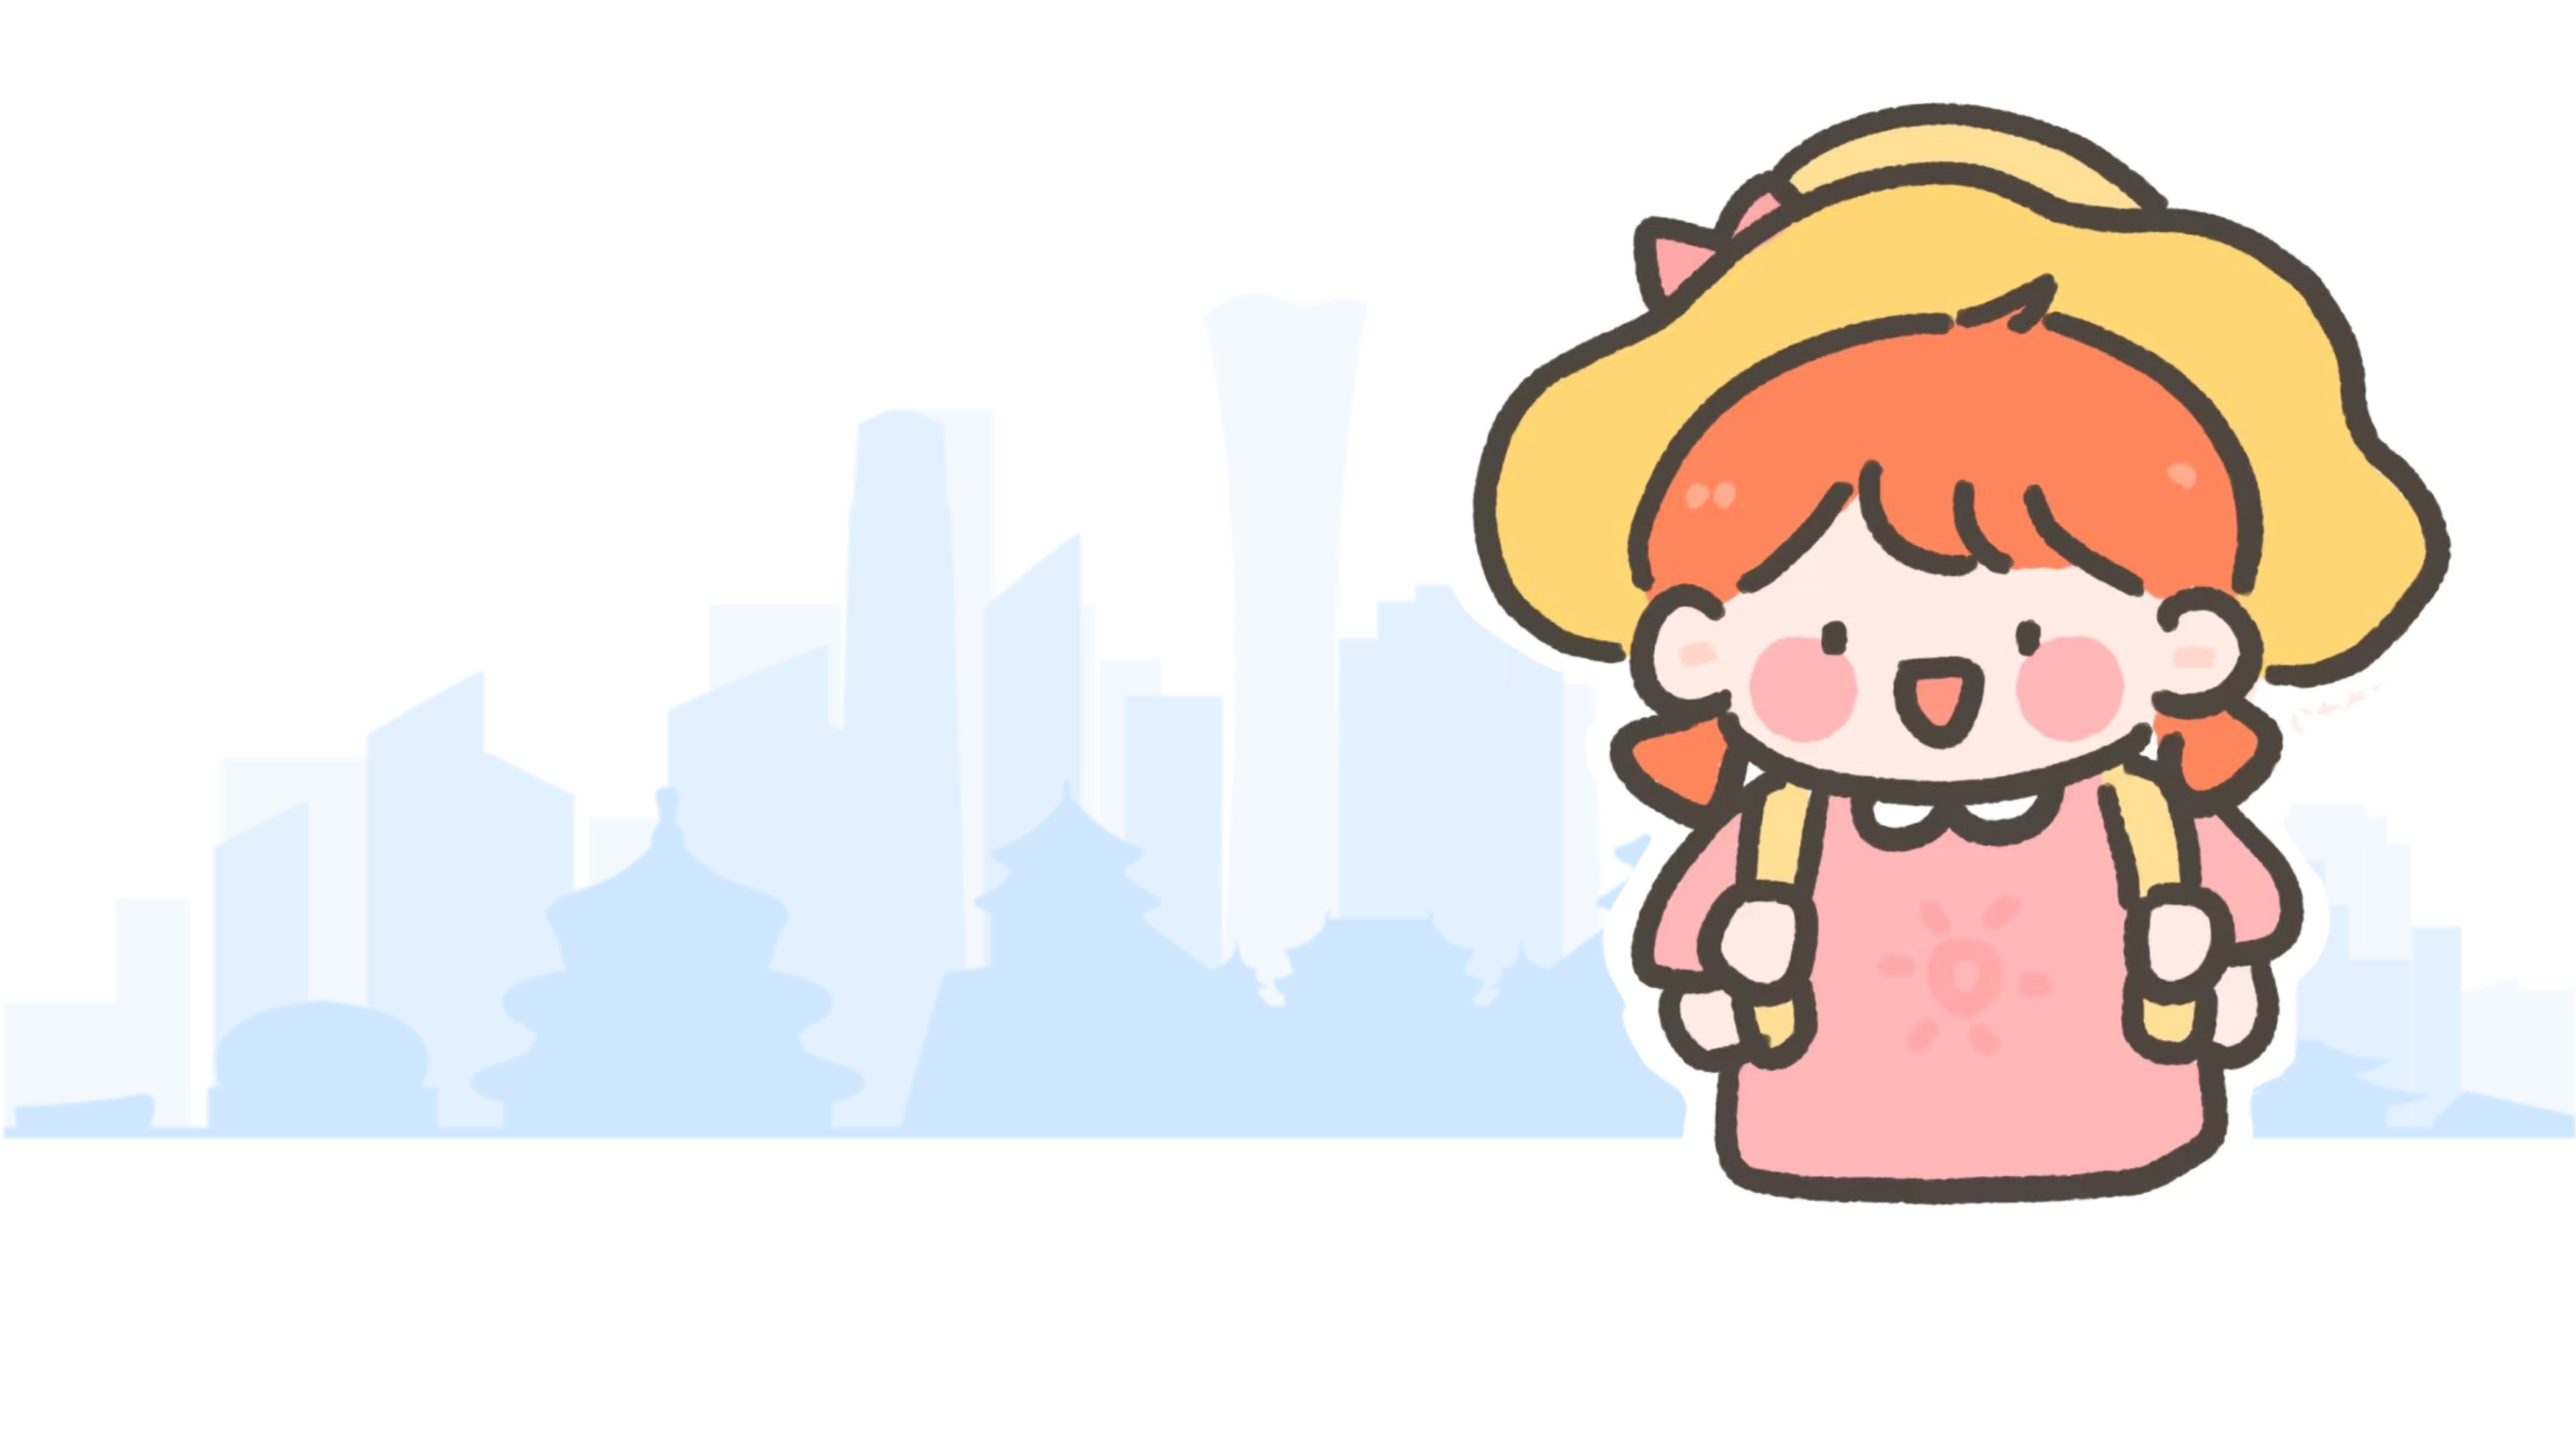
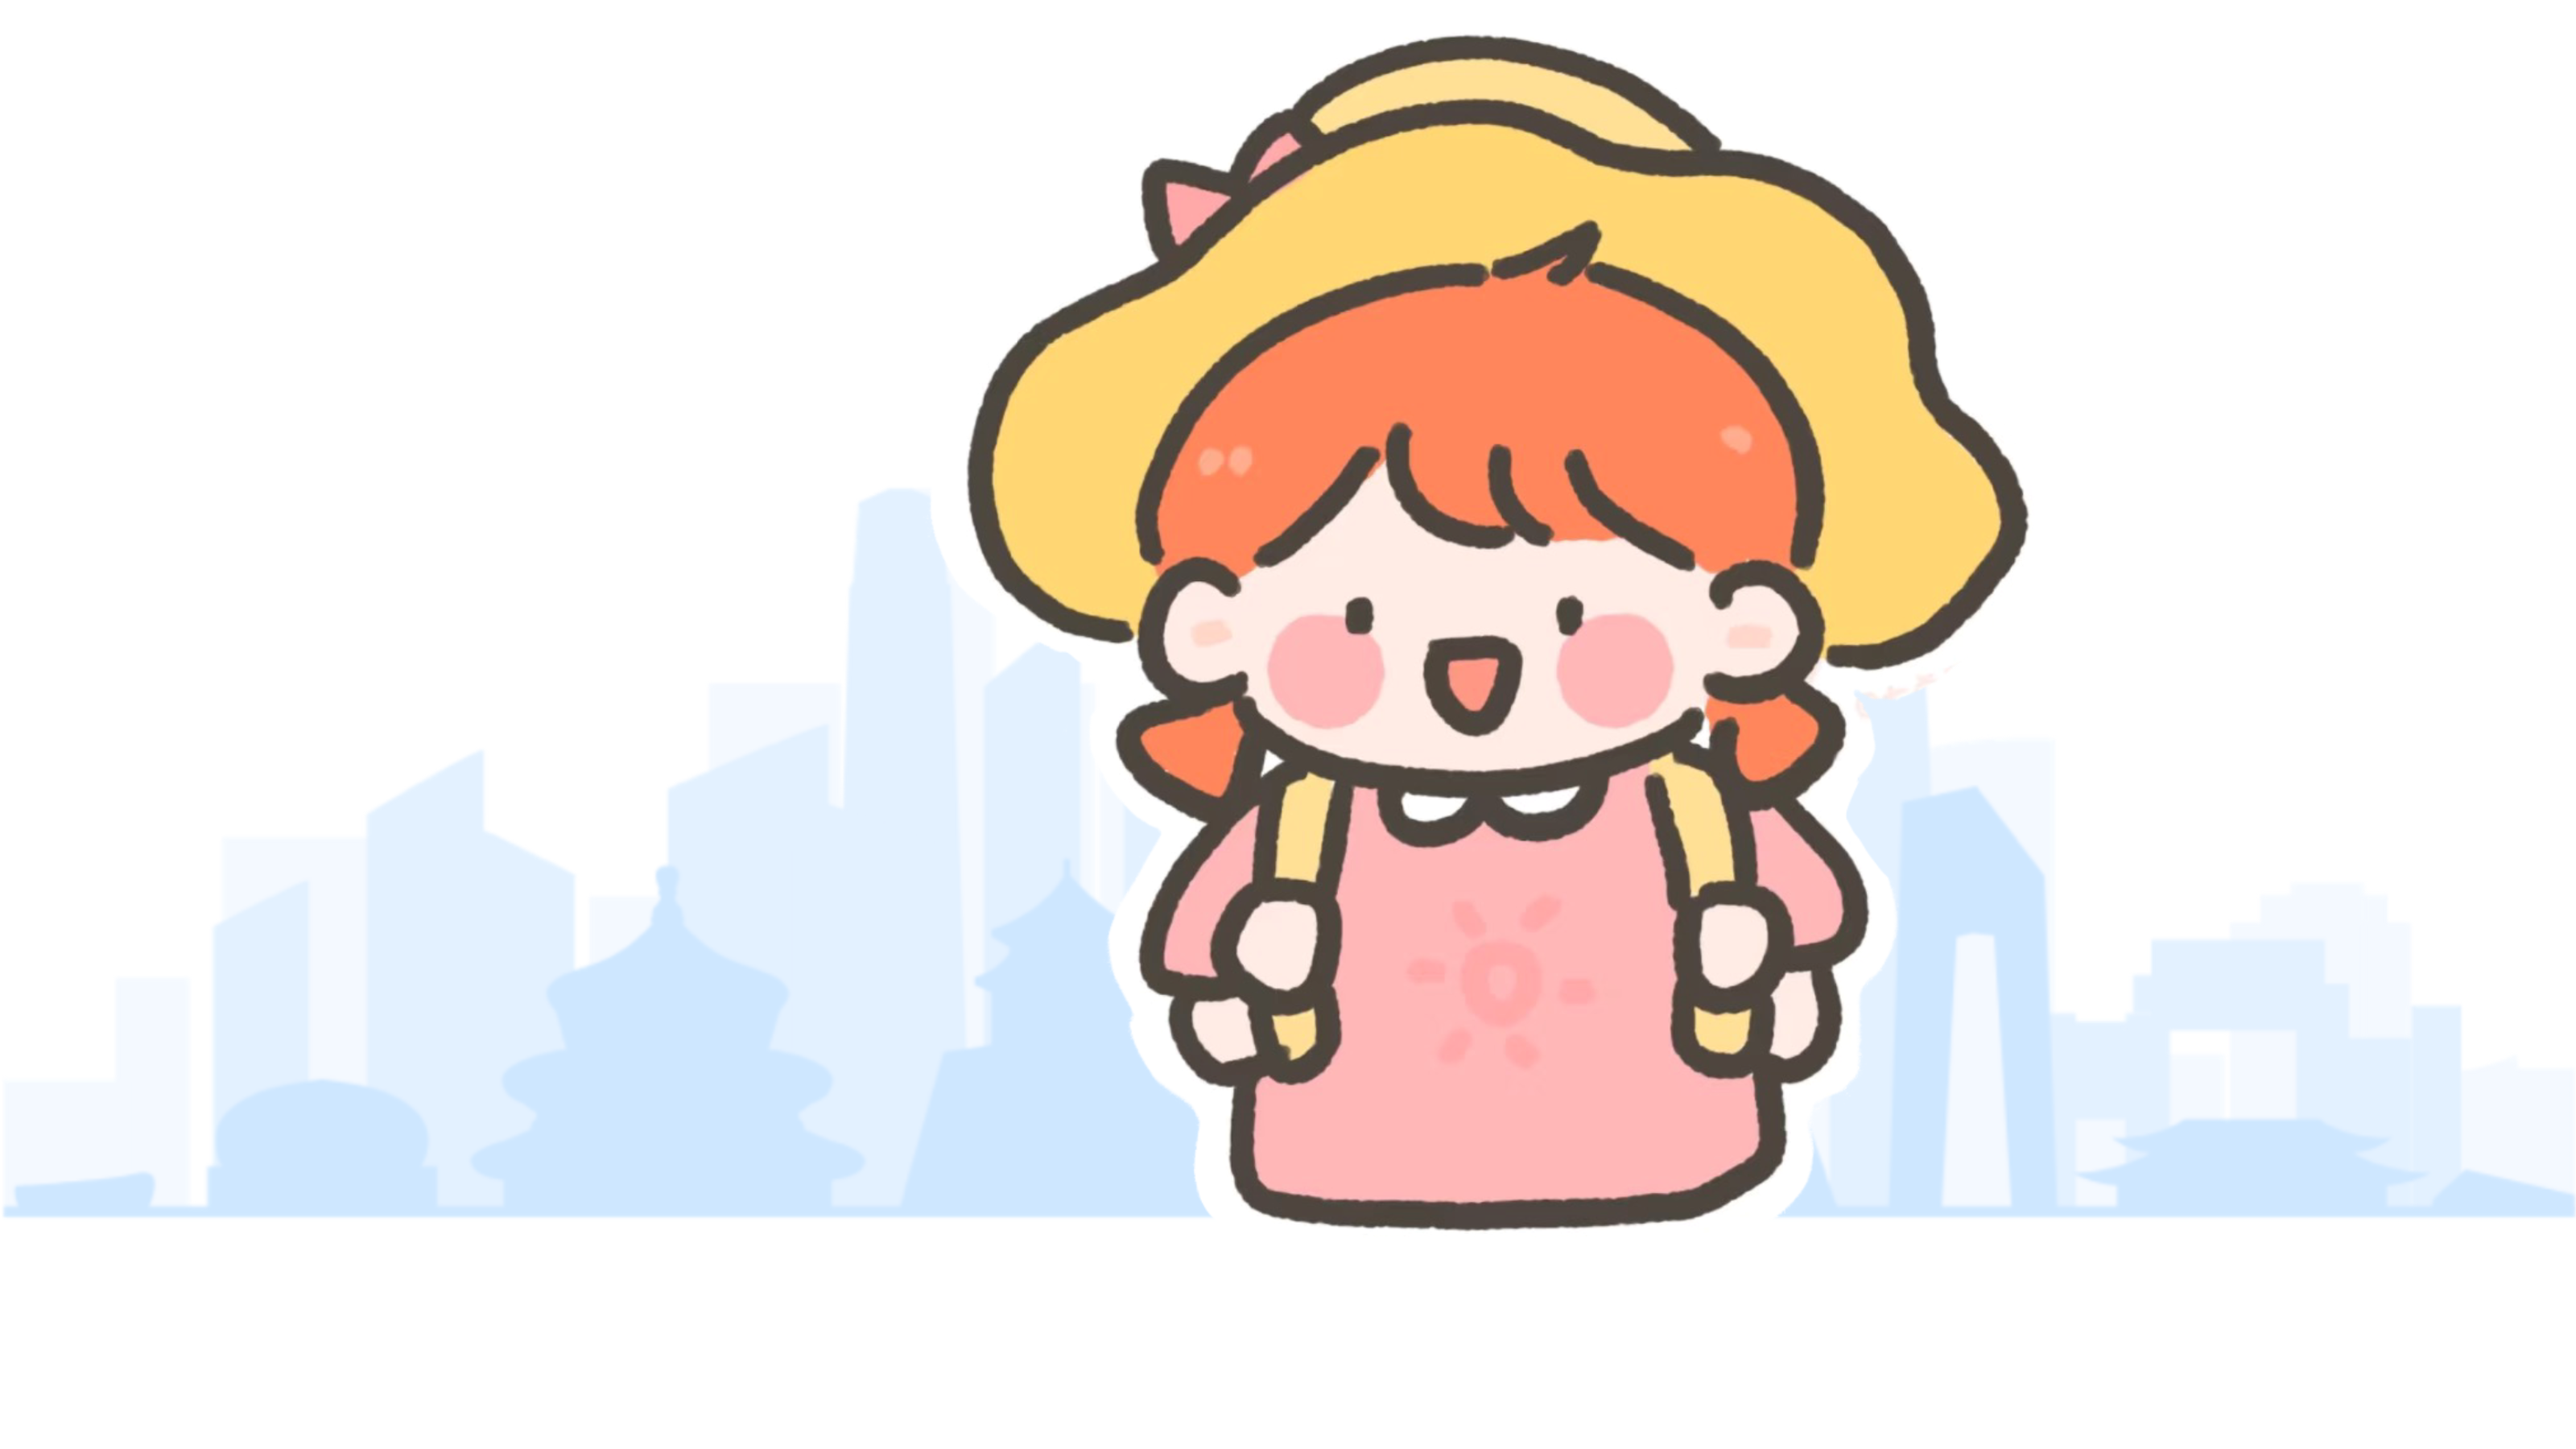
Add files via upload

diff --git a/style.css b/style.css
@@ -27,12 +27,14 @@ body { font-family: sans-serif; overflow-x: hidden; }
 }
 
 /* 波浪通用样式 */
-.wave-container, .wave-container-bottom {
+.wave-container-top  {
     position: absolute;
-    bottom: -1px;
+    bottom: -20px;
     width: 100%;
     line-height: 0;
 }
+
+
 .wave-svg { width: 100%; height: 100px; }
 
 /* 矢量图1：靠右对齐 */
@@ -47,7 +49,7 @@ body { font-family: sans-serif; overflow-x: hidden; }
 /* 第二部分 */
 .section-intro {
     background-color: var(--sky-blue);
-    padding: 100px 0 150px 0;
+    padding: 200px 0 270px 0;
     position: relative;
     z-index: 1; /* 较低层级 */
 }
@@ -64,10 +66,10 @@ body { font-family: sans-serif; overflow-x: hidden; }
 /* 矢量图2：左侧跨层级遮挡 */
 .vector-overlap-left {
     position: absolute;
-    width: 200px; /* 或者使用百分比，如 15% */
+    width: 400px; /* 或者使用百分比，如 15% */
     height: auto; /* 保持比例 */
     left: 0;
-    bottom: 30px; /* 向下偏移进入S3区域 */
+    bottom: -50px; /* 向下偏移进入S3区域 */
     z-index: 5; /* 在S2之上，但S3背景通过z-index管理会遮挡它 */
 }
 
@@ -77,7 +79,7 @@ body { font-family: sans-serif; overflow-x: hidden; }
     padding: 20px 0 80px 0;
     position: relative;
     z-index: 10; /* 较高层级，实现对上面矢量图的遮挡 */
-    margin-top: -2px;
+    margin-top: 30px;
 }
 
 .spots-header { padding-top: 50px; }
@@ -88,12 +90,15 @@ body { font-family: sans-serif; overflow-x: hidden; }
     display: flex;
     justify-content: space-between;
     align-items: center; /* 确保卡片中间在波浪线上 */
-    margin-top: -100px; /* 向上拉，使其压在波浪线上 */
+    margin-top: -300px; /* 向上拉，使其压在波浪线上 */
     padding-bottom: 50px;
+    margin-left: 200px; 
+    gap: 10px; 
 }
 
 .card {
     width: 22%;
+    height: 320px;
     background: white;
     border-radius: 12px;
     overflow: hidden;
@@ -105,9 +110,16 @@ body { font-family: sans-serif; overflow-x: hidden; }
 .card-bottom { height: 25%; padding: 15px; color: black; font-weight: bold; text-align: left; }
 
 /* 错落高度 */
-.card-1, .card-3 { height: 380px; }
-.card-2 { height: 300px; }
-.card-4 { height: 340px; }
+.card-1, .card-3 {
+    transform: translateY(-20px); 
+}
+.card-2 {
+    transform: translateY(30px); 
+}
+
+.card-4 {
+    transform: translateY(10px);  
+}
 
 /* 黄色标签装饰 */
 .loc-tag {
@@ -123,6 +135,41 @@ body { font-family: sans-serif; overflow-x: hidden; }
     transform: translateX(-50%) rotate(-45deg);
     z-index: 2;
 }
+/* --- 卡片悬浮反馈动效 --- */
+
+/* 1. 先给卡片设置基础过渡动画，让动作变丝滑 */
+.card {
+    transition: transform 0.3s ease, box-shadow 0.3s ease;
+    cursor: pointer;
+}
+
+/* 2. 鼠标悬浮（Hover）时的状态 */
+
+.card-1:hover, .card-3:hover {
+    transform: translateY(-35px);
+}
+
+.card-2:hover {
+    transform: translateY(15px);
+}
+
+.card-4:hover {
+    transform: translateY(-5px);
+}
+
+/* 3. 如果卡片里有黄色定位标签，让它也动一下（可选） */
+.card:hover .loc-tag {
+    background-color: #FFEE58; /* 悬浮时标签变亮一点 */
+    transition: 0.3s;
+}
+
+.wave-container-bottom {
+    position: absolute;
+    bottom: -40px;
+    width: 100%;
+    line-height: 0;
+    z-index: 10; 
+}
 
 /* 底部 Notice 栏 */
 .notice-bar {
@@ -134,11 +181,12 @@ body { font-family: sans-serif; overflow-x: hidden; }
     align-items: center;
     color: white;
     font-size: 0.9rem;
+    transform: translateY(40px); 
 }
 .notice-links a { color: white; text-decoration: none; margin-left: 20px; }
 
 
-/* --- 文字大小精准控制模块 --- */
+/* --- 文字大小 --- */
 
 /* 1. 第一部分：大背景图上的文字 */
 .hero-content h1 { 
@@ -151,6 +199,7 @@ body { font-family: sans-serif; overflow-x: hidden; }
 /* 2. 第二部分：中间天蓝色区域文字 */
 .styled-title { 
     font-size: 64px;    /* “南澳岛”三个设计字的大小 */
+    transform: translateY(-40px); 
 }
 .desc { 
     font-size: 18px;    /* 南澳岛简短介绍文字的大小 */
@@ -160,18 +209,55 @@ body { font-family: sans-serif; overflow-x: hidden; }
 /* 3. 第三部分：著名景点标题 */
 .white-label { 
     font-size: 32px;    /* “著名景点”四个字的大小 */
+        transform: translateY(-40px); 
 }
 
 /* 4. 卡片内的景点名称 */
 .card-bottom { 
     font-size: 20px;    /* 卡片下方白底黑字的大小 */
+
 }
 
 /* 5. 底部 Notice 栏文字 */
 .notice-bar { 
     font-size: 14px;    /* 底部所有小字的大小 */
+    color: #FFEB3B
 }
 .notice-title {
     font-size: 16px;    /* 特别调整“notice”单词的大小 */
     font-weight: bold;
+}
+
+/* 给“著名景点”文字下方加装饰线 */
+.white-label {
+    position: relative;
+    display: inline-block;
+    padding-bottom: 10px;
+}
+
+.white-label::after {
+    content: "";
+    position: absolute;
+    left: 0;
+    bottom: 0;
+    width: 50px;      /* 横线的长度 */
+    height: 3px;      /* 横线的粗细 */
+    background-color: #FFEB3B; /* 使用你的黄色标签同色 */
+    border-radius: 2px;
+}
+
+/* 1. 给 notice 链接容器设置 flex 布局，方便对齐 */
+.notice-links {
+    display: flex;
+    align-items: center;
+    gap: 25px; /* 控制链接与竖线的间距 */
+}
+
+/* 2. 在第一个链接后面添加竖线 */
+.notice-links a:not(:last-child)::after {
+    content: "|";          /* 插入竖线 */
+    margin-left: 50px;     /* 竖线距离左边文字的距离 */
+    color: rgba(255, 255, 255, 0.5); /* 调淡竖线颜色，看起来更高级 */
+    font-size: 14px;       /* 调整竖线大小 */
+    pointer-events: none;  /* 确保竖线不可点击 */
 }

diff --git a/index.html b/index.html
@@ -14,7 +14,7 @@
             <p>探索北回归线上的明珠</p>
         </div>
 
-        <div class="wave-container">
+        <div class="wave-container-top">
             <img src="image/小人1号.png" class="vector-top-right" alt="装饰插画">
             <svg class="wave-svg" viewBox="0 0 1440 120" preserveAspectRatio="none">
                 <path d="M0,64L48,69.3C96,75,192,85,288,80C384,75,480,53,576,42.7C672,32,768,32,864,48C960,64,1056,96,1152,96C1248,96,1344,64,1392,48L1440,32L1440,120L1392,120C1344,120,1248,120,1152,120C1056,120,960,120,864,120C768,120,672,120,576,120C480,120,384,120,288,120C192,120,96,120,48,120L0,120Z" fill="#E0F7FA"></path>
@@ -32,9 +32,8 @@
                 <img src="image/map.png" class="cartoon-map" alt="卡通地图">
             </div>
         </div>
-
+        <img src="image/小人2号.png" class="vector-overlap-left" alt="装饰插画">
         <div class="wave-container-bottom">
-            <img src="image/小人2号.png" class="vector-overlap-left" alt="装饰插画">
             <svg class="wave-svg" viewBox="0 0 1440 120" preserveAspectRatio="none">
                 <path d="M0,32L60,42.7C120,53,240,75,360,74.7C480,75,600,53,720,48C840,43,960,53,1080,58.7C1200,64,1320,64,1380,64L1440,64L1440,120L1380,120C1320,120,1200,120,1080,120C960,120,840,120,720,120C600,120,480,120,360,120C240,120,120,120,60,120L0,120Z" fill="#0097A7"></path>
             </svg>
